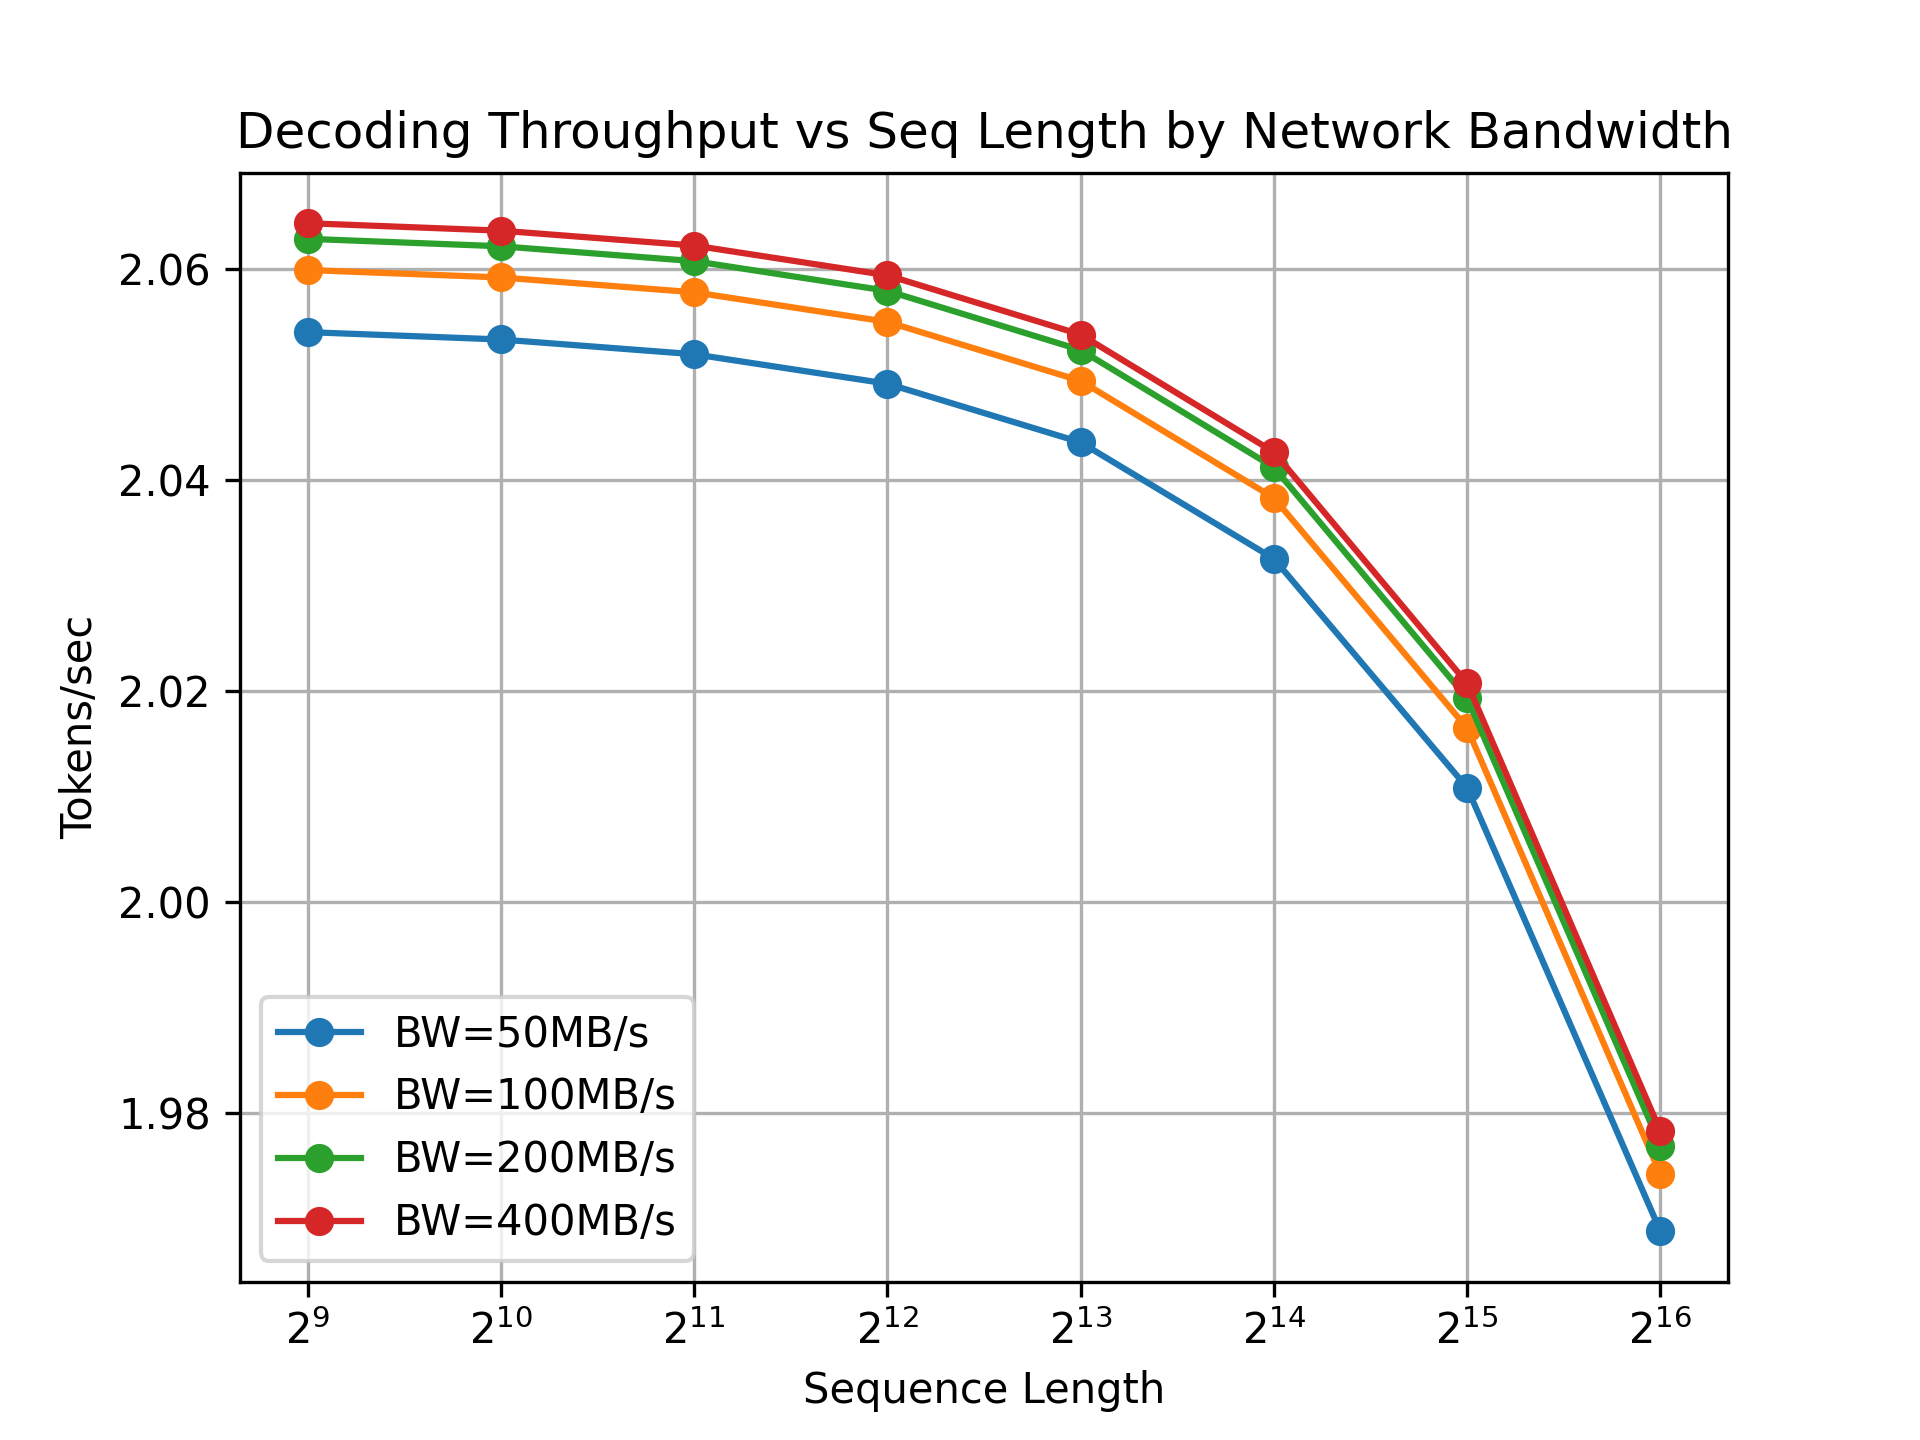
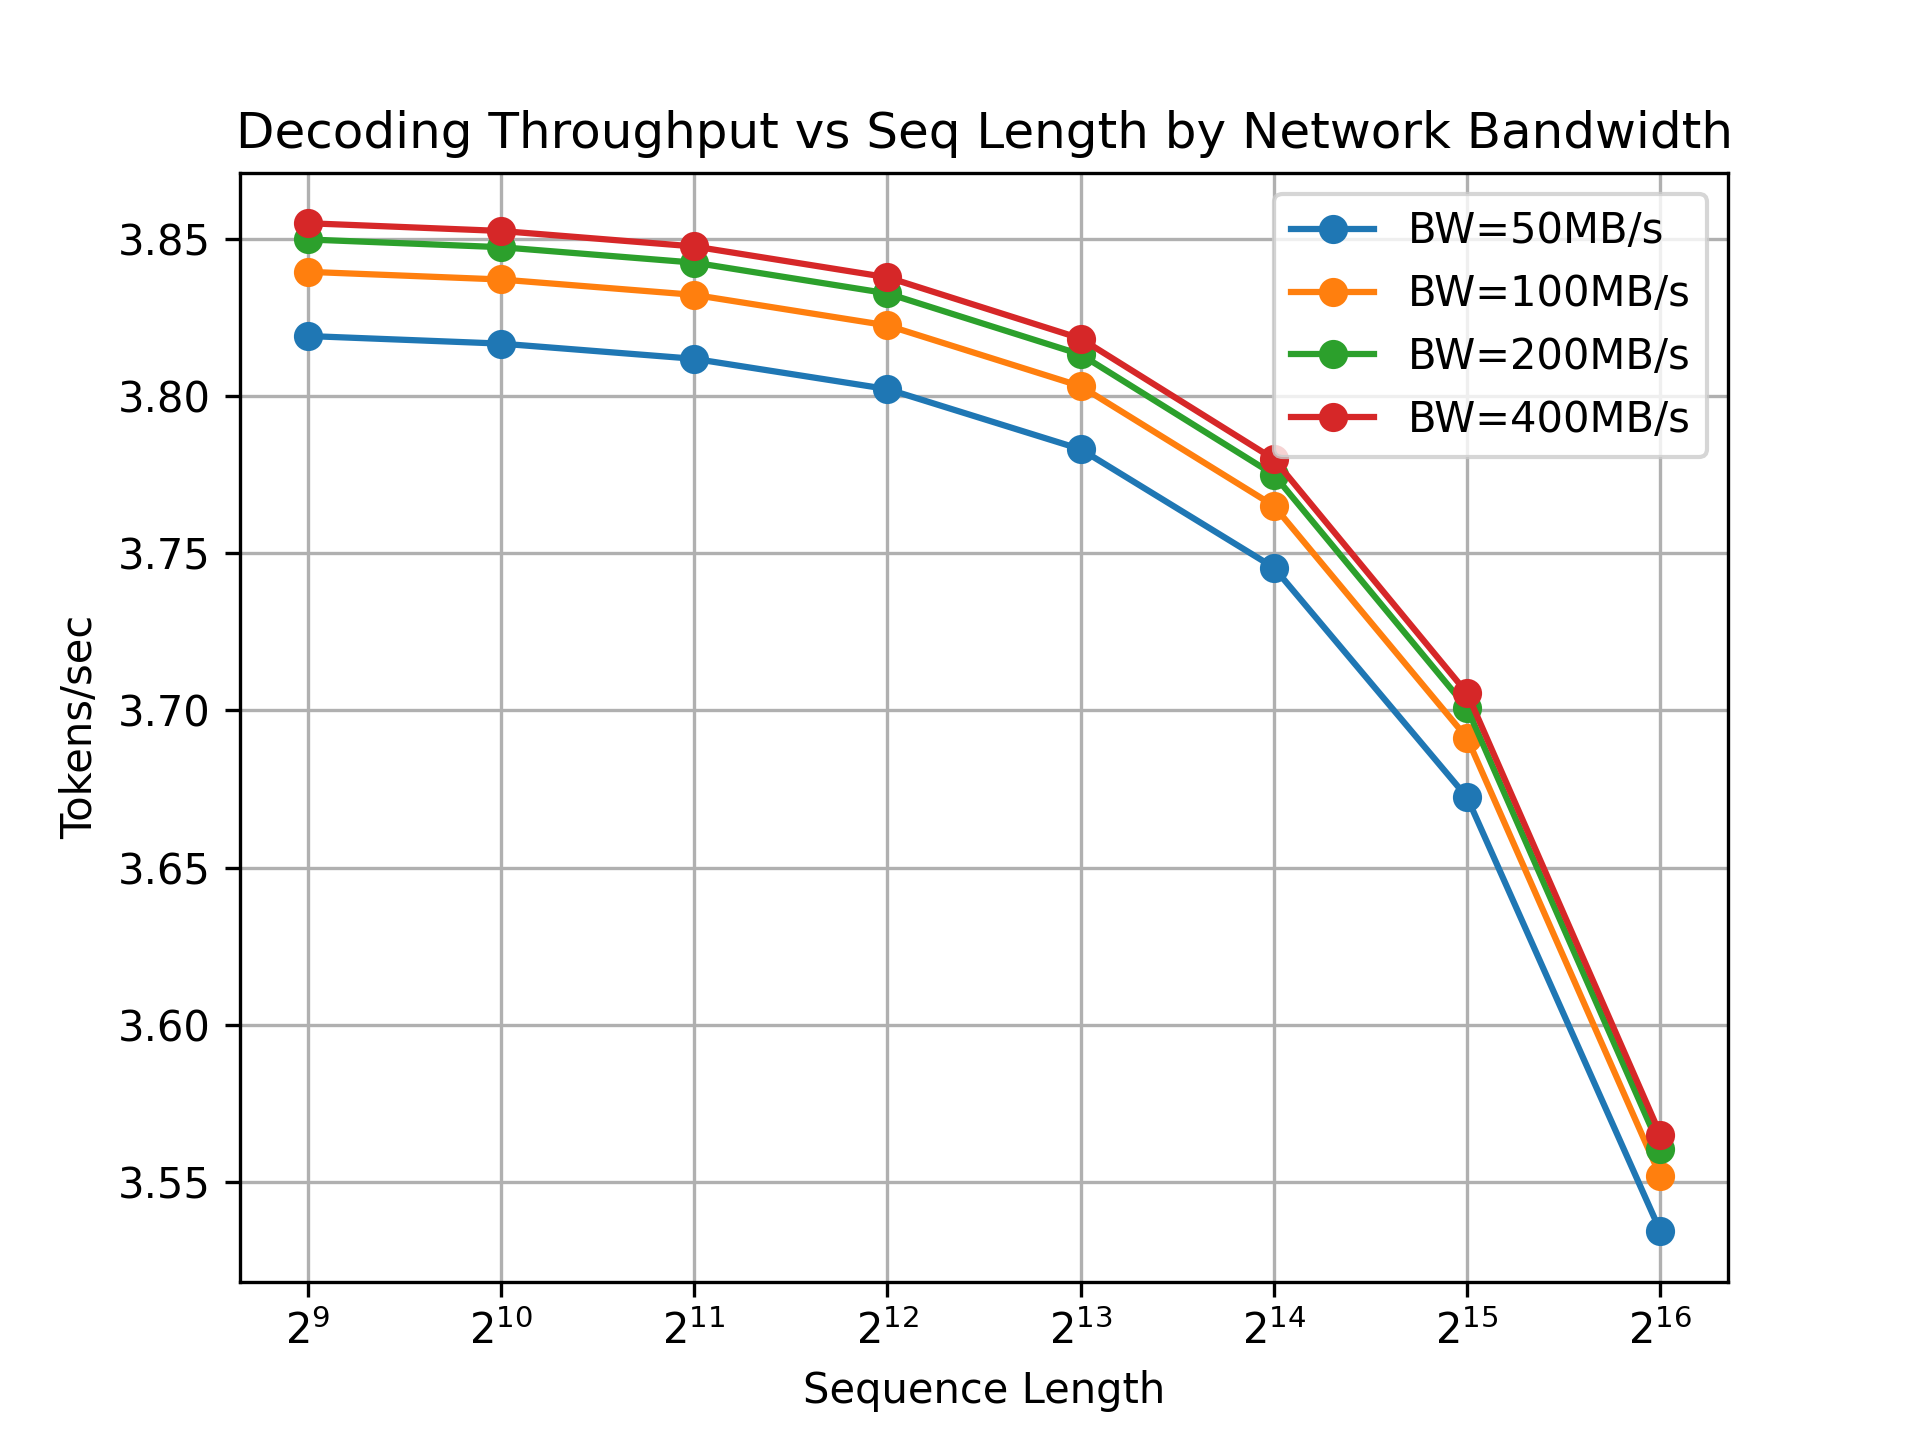
fix: update the correct rtt assumption

diff --git a/src/petals_estimator/estimator.py b/src/petals_estimator/estimator.py
@@ -175,14 +175,14 @@ class PetalsEstimator:
             if i == 0: # On the first server, communication time includes transmission from client to server
                 comm_bw = min(self.client_config.upload_network_bandwidth, server.download_network_bandwidth)   # Use the lower bandwidth between client upload and server download
                 inputs_comm_latency = inputs_bytes / comm_bw
-                inputs_comm_latency += self._get_random_rtt()
+                inputs_comm_latency += (self._get_random_rtt() / 2)
                 latency_components["(comm)first_server_inputs_comm_latency"] += inputs_comm_latency
             else:   # On the other server, the communication happen here is from previous server to next server and also previous server to client
                 previous_server = self.server_configs[i - 1]
                 previous_server_bw = previous_server.upload_network_bandwidth / 2 # This needs to be divided by two because the data is sent to both the client and the next server simultaneously
                 comm_bw = min(server.download_network_bandwidth, previous_server_bw)
                 inputs_comm_latency = inputs_bytes / comm_bw
-                inputs_comm_latency += self._get_random_rtt()
+                inputs_comm_latency += (self._get_random_rtt() / 2)
                 latency_components["(comm)total_server_to_server_inputs_comm_latency"] += inputs_comm_latency
                 # The below is happen at the same time for Client but because it can happen async in the background and the major inference forward process is still happen because the inputs for next server is already send from previous server to next server
                 # a. received "outputs" from previous server
@@ -217,7 +217,7 @@ class PetalsEstimator:
             if i == len(self.server_configs) - 1:
                 comm_bw = min(self.client_config.upload_network_bandwidth, server.download_network_bandwidth)   # Use the lower bandwidth between server upload and client download
                 outputs_comm_latency = outputs_bytes / comm_bw
-                outputs_comm_latency += self._get_random_rtt()
+                outputs_comm_latency += (self._get_random_rtt() / 2)
                 latency_components["(comm)last_server_outputs_comm_latency"] += inputs_comm_latency
 
         compute_logits_latency = 0 

diff --git a/main.py b/main.py
@@ -62,7 +62,7 @@ def create_configuration() -> tuple[ModelConfig, list[ServerConfig], ClientConfi
         dram_bandwidth=50e9                 # 50 GB/s
     )
     network_config = NetworkConfig(
-        fixed_rtt=5e-3
+        fixed_rtt=50e-3
     )
     
     return model_config, server_configs, client_config, network_config
